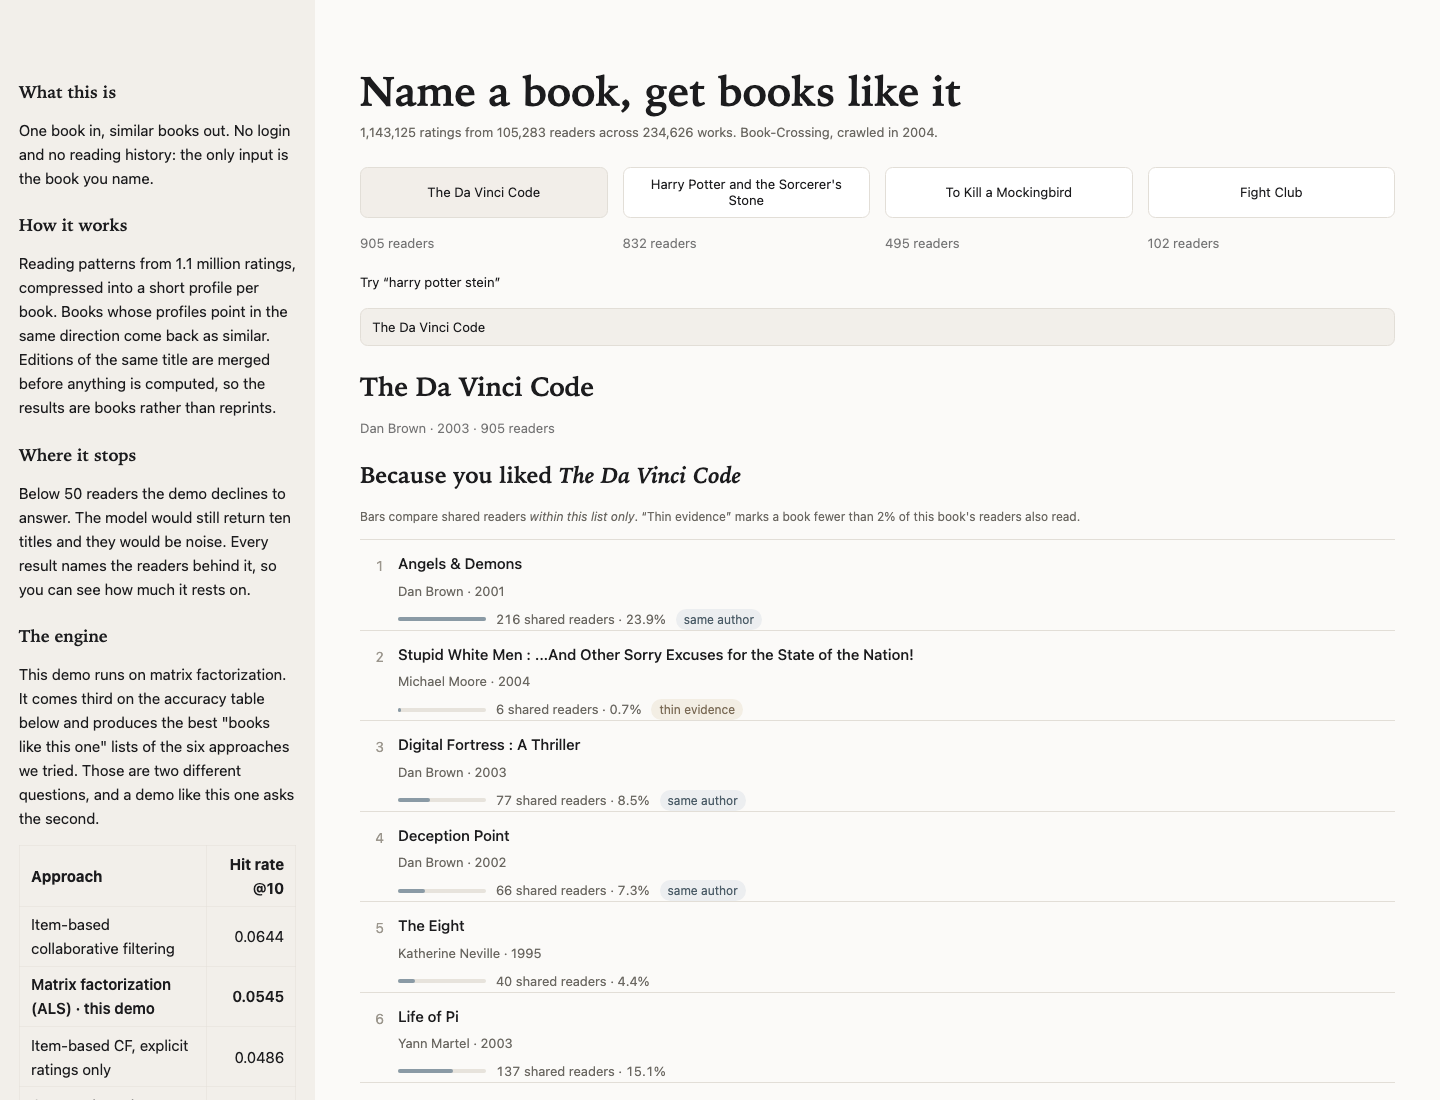
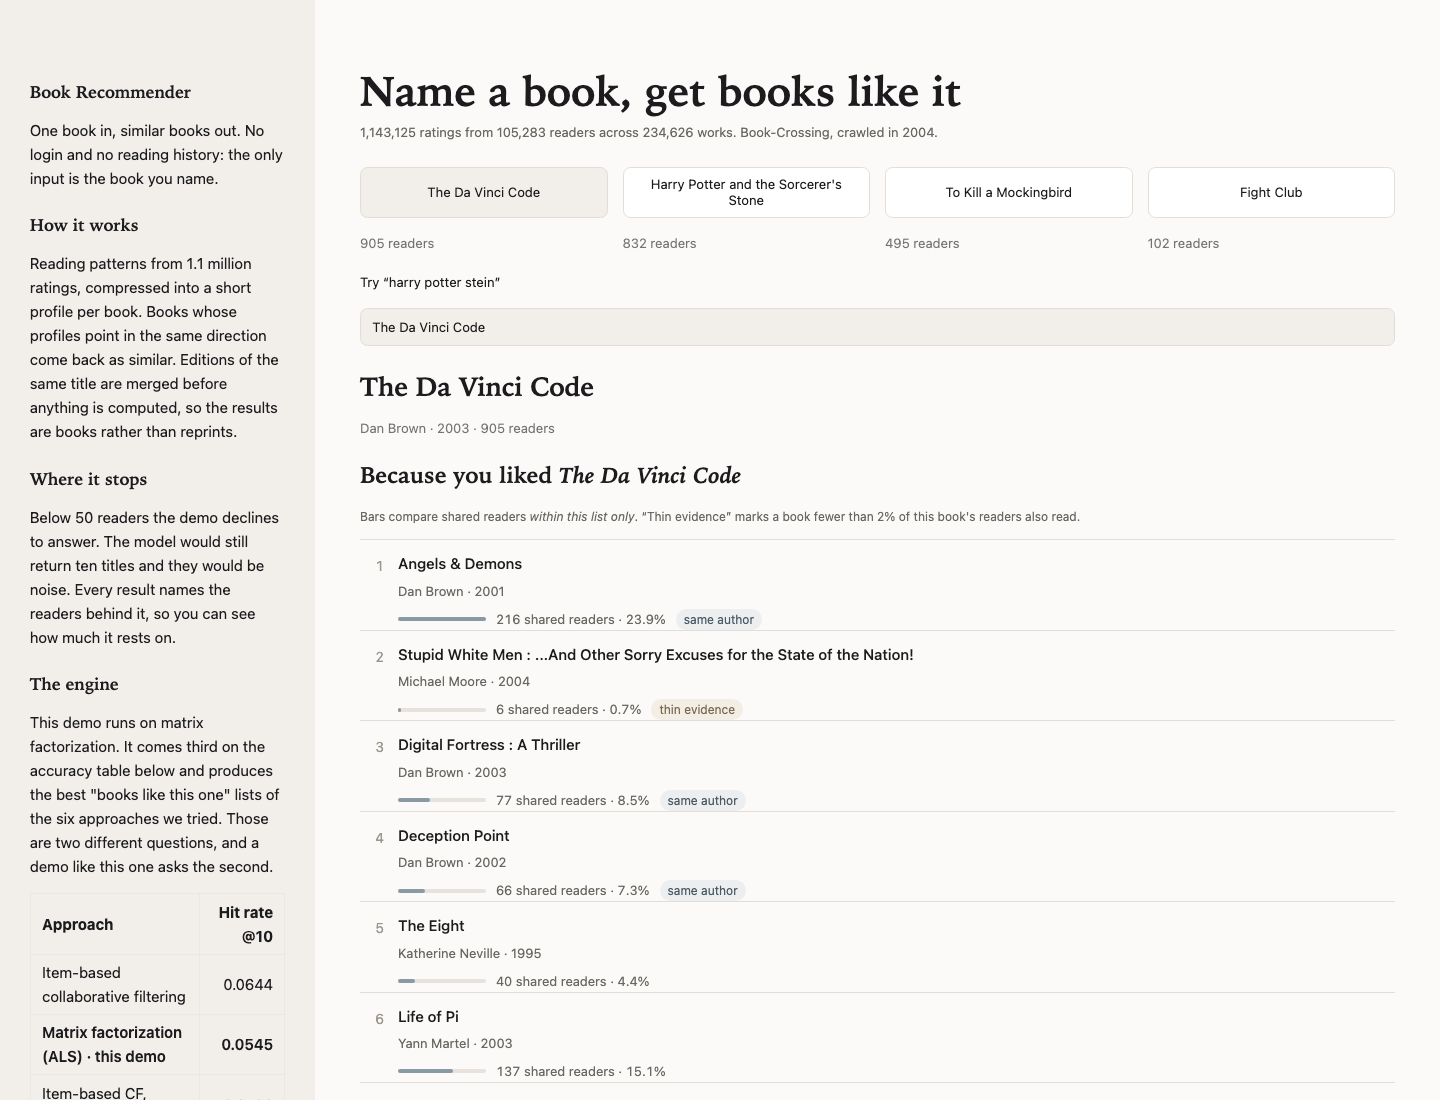
Sidebar: cut the three closing captions, name the thing
review,on seeing it run. The sidebar ended with dead cover images, an
offline/asset-load line, and "every number on this screen is measured, the
ledger is in the repository" — all three are out, and it now ends on the
accuracy table's own footnote.

The last of those was M15 pinned decision 1, so the deviation is recorded
under M15 rather than quietly dropped. It reads better as a cut: each line
answered a question no reader had asked yet, and the ledger claim in
particular is worth more said out loud in answer to "how do you know that"
than printed pre-emptively, where it looks defensive.

"What this is" becomes "Book Recommender": the sidebar's first line is the
only place the thing gets named, and a section label is not a name.

The asset-load timing was the only consumer of get_engine()'s second return
value on the surface, so it stops being threaded into the sidebar.

Screenshots re-shot.

Changed region(s): [[0.0, 0.0618, 0.1875, 0.9891], [0.0312, 0.8345, 0.125, 1.0]]

diff --git a/app/main.py b/app/main.py
@@ -166,7 +166,7 @@ def render_row(rank: int, suggestion, width: float) -> str:
     )
 
 
-def sidebar(engine: DemoEngine, asset_seconds: float) -> None:
+def sidebar(engine: DemoEngine) -> None:
     """The pinned M15.5 copy.
 
     **Register, which is the decision behind every line.** This is a demo shown to a client
@@ -177,7 +177,10 @@ def sidebar(engine: DemoEngine, asset_seconds: float) -> None:
     the floor, the refusal, the evidence, the table where this engine loses — in fewer words.
     """
     with st.sidebar:
-        st.markdown("### What this is")
+        # "Book Recommender" rather than the pinned copy's "What this is" (the project owner,
+        # 09.08.2026): the sidebar's first line is the only place the thing gets named, and
+        # a section label is not a name.
+        st.markdown("### Book Recommender")
         st.markdown(
             "One book in, similar books out. No login and no reading history: the only "
             "input is the book you name."
@@ -218,17 +221,15 @@ def sidebar(engine: DemoEngine, asset_seconds: float) -> None:
             "Hit rate @10: how often a reader's held-out book turns up in their top ten. "
             "Same data split for all six."
         )
-        st.caption(
-            "Cover images are omitted: the dataset's image links date from 2004 and no "
-            "longer resolve."
-        )
-        # Deviation from the pinned copy, and the only one: it read "cold start 0.3 s". That
-        # figure is the asset load, while the app's measured cold start is 9.4 s (L61) — most
-        # of it the sentence encoder for the free-text box. Printing 0.3 s under the words
-        # "cold start" would put a number on the surface that contradicts a ledger line, so
-        # the label says what the number measures. Nothing else in the copy changed.
-        st.caption(f"Runs offline from precomputed data · assets loaded in {asset_seconds:.1f} s.")
-        st.caption("Every number on this screen is measured. The measurement ledger is in the repository.")
+        # The sidebar ends on the table's own footnote. Three closing captions used to
+        # follow — dead cover images, offline/cold start, and "every number here is
+        # measured" — and all three were cut on seeing them run. The last of those was
+        # M15's pinned decision 1; the deviation is recorded with the milestone.
+        #
+        # It reads better as a cut: each line answered a question no reader had
+        # asked yet, and the ledger claim in particular is worth more said out loud in
+        # response to "how do you know that" than printed pre-emptively where it looks
+        # defensive.
 
 
 def main() -> None:
@@ -236,12 +237,12 @@ def main() -> None:
     st.markdown(STYLE, unsafe_allow_html=True)
 
     try:
-        engine, asset_seconds = get_engine()
+        engine, _ = get_engine()
     except (FileNotFoundError, RuntimeError) as error:
         st.error(f"{error}\n\nRun `python scripts/build_app_assets.py` first.")
         return
 
-    sidebar(engine, asset_seconds)
+    sidebar(engine)
 
     st.title("Name a book, get books like it")
     st.markdown(f'<div class="provenance">{html.escape(corpus_line(engine))}</div>', unsafe_allow_html=True)
